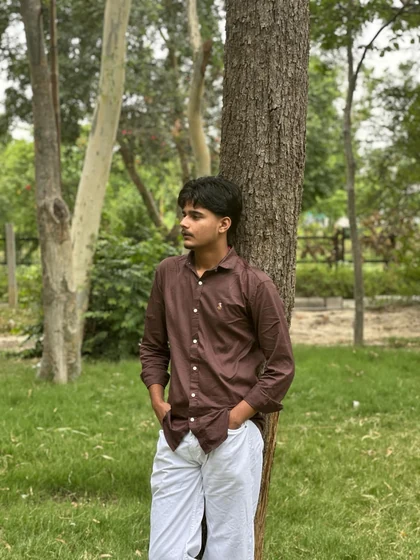
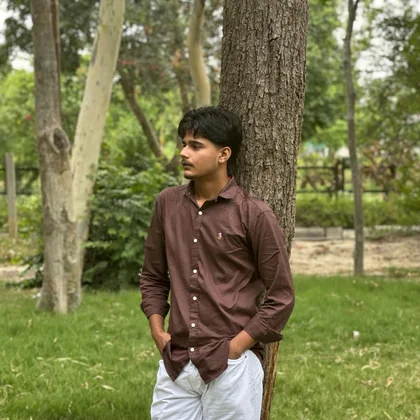
v32 P2: image delivery - square-cropped portrait q85 + 320 tier, hero 896 tier

diff --git a/src/components/About.tsx b/src/components/About.tsx
@@ -73,12 +73,14 @@ export default function About() {
                 <img
                   src="/rachit-480.webp"
                   /* The frame is a fixed 240px ring with 2px of padding, so the
-                     image box is 236 CSS px at every viewport. Each width below
+                     image box is a 236 CSS px square at every viewport, and the
+                     sources are pre-cropped to that same centre square (visible
+                     pixels identical to what CSS object-cover shows). Each width
                      is then the exact device-pixel need of one DPR
-                     (236 x 1 / 1.75 / 2 / 3), so no viewport downloads more
-                     than it draws — the 1200px JPEG this replaced cost 92 KiB
-                     per visit into that box. */
-                  srcSet="/rachit-240.webp 240w, /rachit-420.webp 420w, /rachit-480.webp 480w, /rachit-720.webp 720w"
+                     (236 x 1 / 1.3 / 1.75 / 2 / 3), so no viewport downloads
+                     more than it draws — the 1200px JPEG this replaced cost
+                     92 KiB per visit into that box. */
+                  srcSet="/rachit-240.webp 240w, /rachit-320.webp 320w, /rachit-420.webp 420w, /rachit-480.webp 480w, /rachit-720.webp 720w"
                   sizes="236px"
                   alt="Rachit Sharma — digital marketer building with AI"
                   className="h-full w-full rounded-full object-cover"

diff --git a/index.html b/index.html
@@ -46,7 +46,7 @@
       href="/assets/hero-base.webp"
       type="image/webp"
       fetchpriority="high"
-      imagesrcset="/assets/hero-base-480.webp 480w, /assets/hero-base-512.webp 512w, /assets/hero-base-720.webp 720w, /assets/hero-base.webp 1086w"
+      imagesrcset="/assets/hero-base-480.webp 480w, /assets/hero-base-512.webp 512w, /assets/hero-base-720.webp 720w, /assets/hero-base-896.webp 896w, /assets/hero-base.webp 1086w"
       imagesizes="(min-width: 1280px) calc(0.75 * 80vh), (min-width: 1024px) calc(0.75 * 74vh), (min-width: 640px) calc(0.75 * 54vh), calc(0.75 * 46vh)"
     />
     <link
@@ -55,7 +55,7 @@
       href="/assets/hero-reveal.webp"
       type="image/webp"
       fetchpriority="low"
-      imagesrcset="/assets/hero-reveal-480.webp 480w, /assets/hero-reveal-512.webp 512w, /assets/hero-reveal-720.webp 720w, /assets/hero-reveal.webp 1086w"
+      imagesrcset="/assets/hero-reveal-480.webp 480w, /assets/hero-reveal-512.webp 512w, /assets/hero-reveal-720.webp 720w, /assets/hero-reveal-896.webp 896w, /assets/hero-reveal.webp 1086w"
       imagesizes="(min-width: 1280px) calc(0.75 * 80vh), (min-width: 1024px) calc(0.75 * 74vh), (min-width: 640px) calc(0.75 * 54vh), calc(0.75 * 46vh)"
     />
     <!-- Marks the document as script-capable before first paint. The page

diff --git a/src/data.ts b/src/data.ts
@@ -41,6 +41,7 @@ const heroSrcset = (name: string) =>
   `/assets/hero-${name}-480.webp 480w, ` +
   `/assets/hero-${name}-512.webp 512w, ` +
   `/assets/hero-${name}-720.webp 720w, ` +
+  `/assets/hero-${name}-896.webp 896w, ` +
   `/assets/hero-${name}.webp 1086w`
 
 /**

diff --git a/tools/optimize-static-images.py b/tools/optimize-static-images.py
@@ -6,12 +6,17 @@ own output. That is why the portrait is read from tools/source/ rather than from
 public/ — at one point the file this script wrote was the only copy left, and
 feeding an encoder its own output compounds the resampling loss every run.
 
-  public/rachit-{240,420,480,720}.webp
+  public/rachit-{240,320,420,480,720}.webp
                        About-section portrait. The frame is a fixed 240px ring
                        with 2px of padding, so the image box is 236 CSS px at
-                       every viewport, and `sizes="236px"` maps the DPRs worth
-                       covering (1 / 1.75 / 2 / 3) onto exact device pixels —
-                       no viewport downloads more than it draws. The 1200px JPEG
+                       every viewport and gets center-cropped to a square by
+                       CSS object-cover. The sources are therefore pre-cropped
+                       to the same center square, which is byte-identical on
+                       screen to what object-cover shows and skips the 33% of
+                       vertical pixels a 3:4 file would carry for it.
+                       `sizes="236px"` then maps the DPRs worth covering
+                       (1 / 1.3 / 1.75 / 2 / 3) onto exact device pixels — no
+                       viewport downloads more than it draws. The 1200px JPEG
                        this replaced cost 92 KiB per visit into that box.
   public/og-image.png  Social share card. Never rendered on the page, so it is
                        not on any visitor's critical path — measured and
@@ -30,12 +35,16 @@ ROOT = os.path.join(os.path.dirname(__file__), "..")
 PORTRAIT_SOURCE = os.path.join(ROOT, "tools", "source", "rachit.jpg")
 OG = os.path.join(ROOT, "public", "og-image.png")
 
-# The image box inside the About frame is a fixed 236 CSS px (a 240px ring with
-# 2px padding) at every viewport, so these are its exact device-pixel needs at
-# DPR 1, 1.75 (Lighthouse mobile), 2 and 3 — the multiples sizes="236px" hands
-# to the browser.
-PORTRAIT_WIDTHS = (240, 420, 480, 720)
-PORTRAIT_QUALITY = 88
+# The image box inside the About frame is a fixed 236 CSS px square (a 240px
+# ring with 2px padding) at every viewport, so these are its exact device-pixel
+# needs at DPR 1, 1.3, 1.75 (Lighthouse mobile), 2 and 3 — the multiples
+# sizes="236px" hands to the browser. The 320 tier exists because the 240->420
+# jump over-served a DPR ~1.3-1.5 display by up to two thirds.
+PORTRAIT_WIDTHS = (240, 320, 420, 480, 720)
+# q85 keeps PSNR 36-39 dB and SSIM >= 0.98 on the square-cropped source at
+# every tier (q82 already drops to 0.980-0.983 and q80 below that), which is
+# the same visually-identical bar the hero images are held to.
+PORTRAIT_QUALITY = 85
 
 
 def psnr(a, b):
@@ -79,17 +88,18 @@ def ssim(a, b):
 
 
 def probe_rachit(original):
+    square = portrait_square(original)
     print(f"\n=== portrait source  {original.size[0]}x{original.size[1]} "
-          f"{os.path.getsize(PORTRAIT_SOURCE):,} B ===")
+          f"{os.path.getsize(PORTRAIT_SOURCE):,} B "
+          f"-> center square {square.size[0]}x{square.size[1]} ===")
     tmp = os.path.join(ROOT, "dist", "probe.webp")
     os.makedirs(os.path.dirname(tmp), exist_ok=True)
     for width in PORTRAIT_WIDTHS:
-        height = round(original.size[1] * width / original.size[0])
-        resized = original.resize((width, height), Image.LANCZOS)
+        resized = square.resize((width, width), Image.LANCZOS)
         ref = resized.convert("RGB")
         resized.save(tmp, "WEBP", quality=PORTRAIT_QUALITY, method=6)
         got = Image.open(tmp).convert("RGB")
-        print(f"  {width}x{height}  {os.path.getsize(tmp):>8,} B"
+        print(f"  {width}x{width}  {os.path.getsize(tmp):>8,} B"
               f"   PSNR {psnr(got, ref):5.2f} dB   SSIM {ssim(got, ref):.4f}")
 
 
@@ -127,17 +137,29 @@ def probe_og(original):
           "on the share card would be a visible design change")
 
 
+def portrait_square(original):
+    """Pre-crop the 3:4 source to the center square object-cover shows.
+
+    CSS `object-cover` in the 236px square ring crops the same center square
+    (top-to-bottom), so encoding the square directly gives byte-identical on
+    screen pixels while carrying ~25% fewer bytes per file.
+    """
+    w, h = original.size
+    side = min(w, h)
+    return original.crop(((w - side) // 2, (h - side) // 2, (w + side) // 2, (h + side) // 2))
+
+
 def write_rachit(original):
+    original = portrait_square(original)
     total = 0
     for width in PORTRAIT_WIDTHS:
-        height = round(original.size[1] * width / original.size[0])
-        resized = original.resize((width, height), Image.LANCZOS)
+        resized = original.resize((width, width), Image.LANCZOS)
         out = os.path.join(ROOT, "public", f"rachit-{width}.webp")
         resized.save(out, "WEBP", quality=PORTRAIT_QUALITY, method=6)
         size = os.path.getsize(out)
         total += size
         print(f"wrote {os.path.relpath(out, ROOT).replace(os.sep, '/')}"
-              f"  {width}x{height}  {size:,} B")
+              f"  {width}x{width}  {size:,} B")
     print(f"  {len(PORTRAIT_WIDTHS)} tiers, {total:,} B on disk — "
           f"exactly one is fetched per visit")
 

diff --git a/tools/generate-hero-assets.py b/tools/generate-hero-assets.py
@@ -44,8 +44,8 @@ DEST = os.path.join(os.path.dirname(__file__), "..", "public", "assets")
 #
 #   375x667  @2   -> 460px   480 tier
 #   412x823  @1.75 -> 497px  512 tier
-#   390x844  @3   -> 874px  1086 tier
-#   768x1024 @2   -> 829px  1086 tier
+#   390x844  @3   -> 874px   896 tier  (was 1086, 24% oversize)
+#   768x1024 @2   -> 830px   896 tier  (was 1086, 31% oversize)
 #   1440x900 @1   -> 540px   720 tier
 #   1440x900 @2   -> 1080px 1086 tier
 #   1920x1080 @1  -> 648px   720 tier
@@ -58,11 +58,23 @@ DEST = os.path.join(os.path.dirname(__file__), "..", "public", "assets")
 # 390x844 @3 phone still needs 874 and takes 1086. Fixing that needs an ~896
 # tier, which is a bigger, separately-verified change.
 #
+# 896 closes that gap (874 needs 896 = 2.6% and 830 = 8% overshoot), and it also
+# serves the high-DPR phone that used to pull the 1086 master down. Measured in
+# Aug: the previous top end (a 390x844 @3 phone) downloaded 223 KB of hero-reveal
+# for a 291x388 CSS box; with 896 it downloads 178 KB. 1086 stays as the cap for
+# 1440 @2x and upscaling, where the source cannot do better.
+#
+# Quality stays q88 at every width: probing q85/q82 on the composited reveal
+# drops SSIM below the 0.98 "visually identical" bar (q85 = 0.977 on the
+# silver blazer's high-contrast detail). The corner that wastes bytes is sizing,
+# not compression.
+#
 # A 1086px cap keeps the 1920 @2x case upscaling by exactly as much as it always
 # has — the source is not large enough to do better, and inventing a bigger
 # master would mean resampling from a file that is already fixed.
 WIDTHS = [(480, "hero-{}-480.webp"), (512, "hero-{}-512.webp"),
-          (720, "hero-{}-720.webp"), (1086, "hero-{}.webp")]
+          (720, "hero-{}-720.webp"), (896, "hero-{}-896.webp"),
+          (1086, "hero-{}.webp")]
 
 QUALITY = 88
 

diff --git a/AGENTS.md b/AGENTS.md
@@ -100,6 +100,29 @@
 
 ## 📝 Changelog (History of Work)
 
+### [v32 — P2: image delivery (square-cropped portrait q85 +320 tier, hero 896 tier)] — 30 Sep 2026
+**User ka brief:** P2 sirf images — (1) portrait: displayed 236px box par kareebi tier + tighter WebP compression, (2) hero: srcset tighter fit + quality re-check, (3) P3/P4 mat chhua, (4) `/health` ki necessity confirm karo. After: estimated savings + "nothing else visually changed" confirm.
+
+**Ground truth (live CDP tier sweep, production):** hero figure = 0.75 × {46/54/74/80}vh CSS px; portrait box = **236×236 square** (`object-cover` center-crop — user ka "236×315" actual box nahi hai, ye 3:4 intrinsic vs square frame ka difference hai). Served tiers the: lh-mobile 412@1.75 hero→512 (need 495, 5.8% overshoot = already optimal), pixel 390@3→1086 (need 873 — 24%), tablet 768@2→1086 (need 830 — 31%), portrait 720 tier = 137,376 B served on DPR3 mobile.
+
+**Probe (Pillow, composited-over-bg for hero):**
+- Hero: q88 zyada se zyada — SWAT reveal (silver blazer) q85 par SSIM 0.977 (< 0.98 bar), PSNR 39.1-40.0. Compression already bar par; win sizing se hai, compression se nahi. q88 retain.
+- Portrait: q85 tak SSIM ≥0.98 (0.984-0.987) — compression headroom hai; q82 = 0.980-0.983, q80 < 0.98. **q85.** Square center-crop = CSS object-cover ka exact visible area (= 25% kam pixels).
+
+**Changes:**
+1. **Portrait → square + q85 + 320 tier.** `tools/optimize-static-images.py`: `PORTRAIT_WIDTHS (240,320,420,480,720)`, `PORTRAIT_QUALITY 85`, naya `portrait_square()` center-crop (byte-identical on-screen — proof: live prod vs local CDP screenshot, rect 236×236 same coords, mean RGB diff 4.3/255). Files: 240 28,624→17,996 · 320 NEW 27,626 · 420 65,560→39,790 · 480 78,308→48,178 · 720 137,376→81,232. 320 tier DPR1.36-1.5 band (currently 420) serve karta hai. `About.tsx` srcSet + comment updated (`sizes="236px"` intact — box 236 px square hai).
+2. **Hero → 896 tier (purely additive), q88 retain.** `tools/generate-hero-assets.py` WIDTHS + `(896, ...)`. Existing 480/512/720/1086 **byte-identical** (hash-consistent, regeneration deterministic) → cursor-reveal pairs untouched. Files: base 94,218 B · reveal 177,676 B. `src/data.ts` heroSrcset + `index.html` dono imagesrcset me 896w entry (preload/img mismatch se bachne ke liye zaroori).
+3. **`/health` verdict — KEEP (not leftover):** ye monitoring ping nahi, client-side keep-alive hai — Render free tier 15-min idle spin-down se contact form ko cold-start (5-50s) se bachana iska kaam. GitHub Actions cron (deploy-side repo, har 10 min) pehle hi warm rakhta hai isliye client ping **largely redundant**, par ye repo me verify kiya ja sakta hai (cron wala repo private) aur ~0 cost (idle-deferred, fire-and-forget, 0 main-thread). Remove karne ka risk: cron khatam ho to form dobara cold-start fail. Isliye recommend: **rakho**.
+
+**Verify:** `npm run lint` 0 errors · build pass (`/` 57,056 B, +250 B = srcset strings) · `npm run verify` All checks passed · local tier sweep: pixel 390@3 → **hero-base-896.webp** (was 1086) · tablet 768@2 → **896** · lh-mobile → 512 (unchanged, correct) · portrait box 236×236 all viewports, tiers 240/320/420/480/720 served per DPR. **Not pushed** — user ke aadesh ka wait (PageSpeed ke baad).
+
+**Expected savings (per visit):**
+- High-DPR phone (pixel 390@3): hero -71.3 KB (base -25.7 + reveal -45.6) + portrait -56.1 KB = **~127 KB** (user ka approx match).
+- lh-mobile (412@1.75): hero unchanged (512 optimal) + portrait 420 tier **-25.8 KB**.
+- tablet 768@2: hero -71.3 KB + portrait 480 tier -30.1 KB.
+
+**Files changed (v32):** MOD `tools/optimize-static-images.py`, `tools/generate-hero-assets.py`, `src/components/About.tsx`, `src/data.ts`, `index.html`, `AGENTS.md`; NEW `public/rachit-320.webp`, `public/assets/hero-{base,reveal}-896.webp` (2); REGENERATED `public/rachit-{240,420,480,720}.webp` + hero 480/512/720/1086 (byte-identical).
+
 ### [v31 — P1: homepage renders with zero runtime API calls (inline content snapshot + rebuild hooks)] — 30 Sep 2026
 **User ka brief (perf pass):** PageSpeed hero LCP chained through `/health` → `/api/content` (2.59s "element render delay" of 3.6s LCP). P1 directive — homepage must render instantly from baked data, **koi required runtime API call first paint se pehle nahi**. Don't touch anything scoring 100 (SEO/A11y/BP/Agentic Browsing) ya hero cursor-reveal visual behavior. Rebuild-on-change pattern (jo blog ke liye tha) ab `site_settings`/`site_story`/`projects` par bhi.
 
@@ -825,9 +848,9 @@ Trailing slash + env ke full-URL hone dono handle karta hai; unset ho to purana 
 
 - [ ] **`hermes setup` chala ke provider/auth set karo** — Hermes **installed hai** (`D:\hermes`, v0.21.5) par koi LLM provider key nahi hai, isliye `hermes chat` abhi "Hermes isn't configured yet" dekar exit karta hai. User ko apne terminal me ek baar `hermes setup` chalana hai (interactive OAuth ya API key). Uske baad se research tasks `hermes chat --query-file` par jayenge.
 - [ ] ~~**Hermes CLI install karo**~~ — **DONE (30 Sep 2026)**: `D:\hermes` par install, `D:\hermes\bin` user PATH me, `HERMES_HOME=D:\hermes` User env, gateway + watchdog restart-proof. Detail: global `C:\Users\fvcvv\.config\opencode\AGENTS.md` me poora reference + status block. Research tab tak `websearch` se, jab tak `hermes setup` na ho.
-- [ ] **Perf pass (v31) P2 — image delivery: portrait + hero tiers (~127 KiB savings)** — `rachit-{240,420,480,720}.webp` srcSet sirf `sizes="236px"` ke against (box 236px; DPR picks), hero `HERO_SRCSET` tiers (webp q88) review + `HERO_SIZES` sanity.
-- [ ] **Perf pass (v31) P3 — render-blocking CSS (~340 ms)** — hero critical CSS inline `<head>`, baaki non-blocking; sirf agar no-FOUC risk na ho.
-- [ ] **Perf pass (v31) P4 (low) — unused JS (~87 KiB, `index-W4tMUX_G.js`)** — code-splitting deprioritized (SSR graph + admin split risky).
+- [x] **Perf pass (v31) P2 — image delivery: square-crop + q85 + 320 tier (portrait) + 896 tier (hero)** — sab local done + measured (`v32` changelog). Push pending user (PageSpeed ke baad).
+- [ ] **Perf pass (v31) P3 — render-blocking CSS (~340 ms)** — hero critical CSS inline `<head>`, baaki non-blocking; sirf agar no-FOUC risk na ho. **HOLD — user ne performance work stop kar diya after P2.**
+- [ ] **Perf pass (v31) P4 (low) — unused JS (~87 KiB, `index-W4tMUX_G.js`)** — code-splitting deprioritized (SSR graph + admin split risky). **HOLD — same as P3.**
 - [ ] **`v31` P1 commit + push `main`** — saara P1 kaam local hai (lint/build/verify + CDP verify pass). Push (user aadesh par) → Vercel auto-deploy ~45s → production Lighthouse median + PageSpeed `element-render-delay` measure + `sitemap.xml` posts intact confirm.
 - [ ] **`v29` commit + push `main`** — saara perf kaam local hai. User ke aadesh par hi commit/push karna (files list changelog `v29` me hai).
 - [ ] **Deploy ke baad live verify karna** — local `vite preview` Vercel functions nahi chalata, isliye `/api/content` ka naya `{settings, story, projects, posts}` shape aur `/.well-known/*` ke real 404 sirf production par confirm ho sakte hain. Push ke baad: `https://rachitportfolio-fawn.vercel.app/api/content` + `/.well-known/ai-catalog.json` (404) + `/llms.txt` (200).
